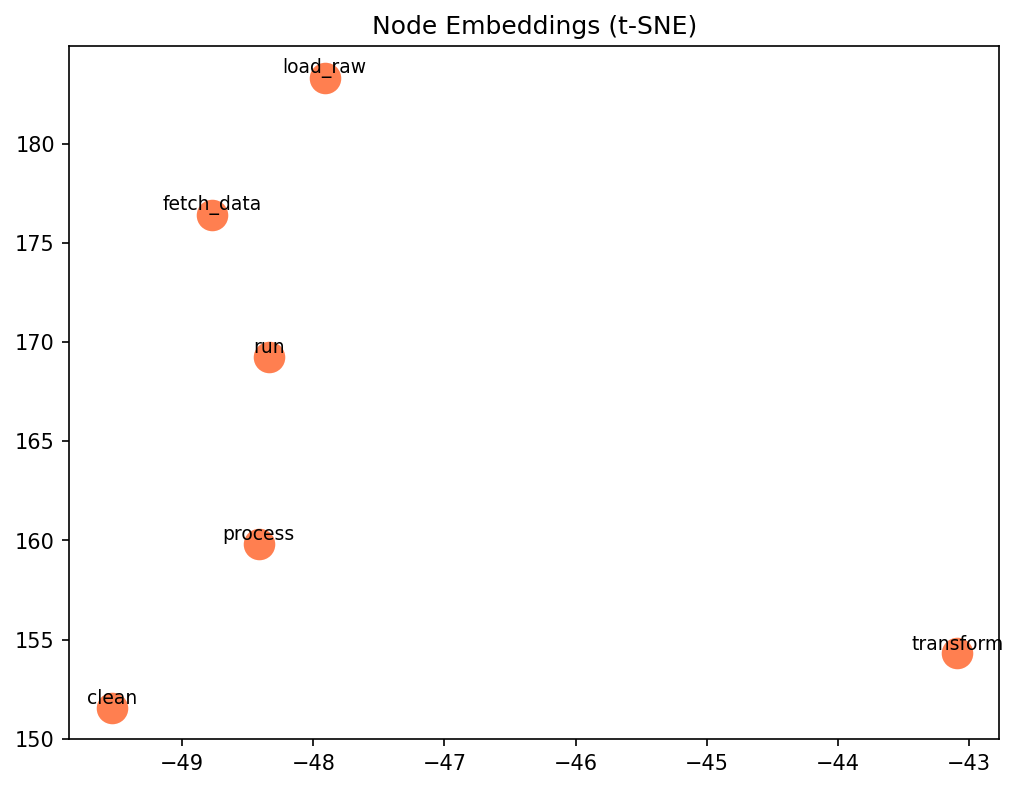
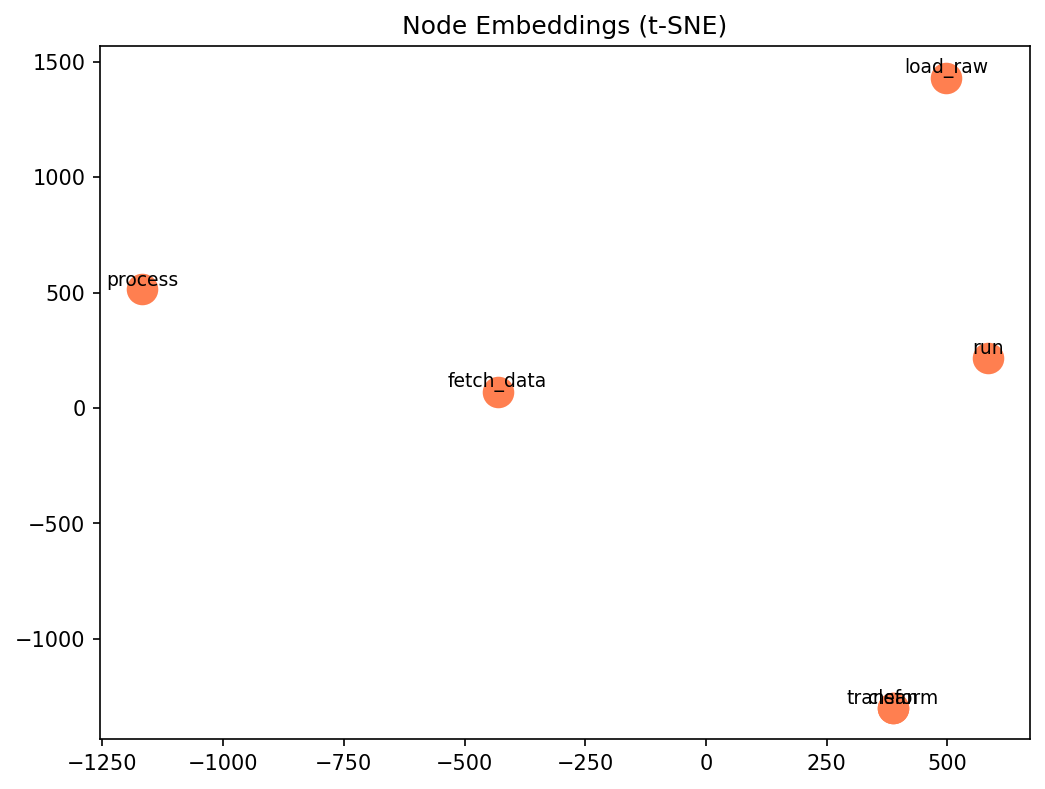
Semantics added

diff --git a/graph.py b/graph.py
@@ -1,18 +1,31 @@
 import torch
 from torch_geometric.data import Data
+from sentence_transformers import SentenceTransformer
+
+# Load a lightweight, fast model suitable for a 1-week sprint
+# This model turns text into a 384-dimensional semantic vector
+embedder = SentenceTransformer('all-MiniLM-L6-v2')
 
 def build_graph(parsed):
+    """
+    Constructs a PyTorch Geometric Data object with Semantic Node Features.
+    """
     functions = parsed["functions"]
     calls = parsed["calls"]
 
-    # Map function name → integer index
+    # 1. Map function name → integer index
     node_index = {name: i for i, name in enumerate(functions)}
     num_nodes = len(functions)
 
-    # One-hot node features
-    x = torch.eye(num_nodes, dtype=torch.float)
+    # 2. SEMANTIC NOVELTY: Generate Node Features (x)
+    # Instead of an Identity Matrix, we use the "Meaning" of the function names.
+    # This allows the GNN to learn patterns based on what the code DOES.
+    print(f"Generating semantic embeddings for {num_nodes} functions...")
+    with torch.no_grad():
+        embeddings = embedder.encode(functions)
+        x = torch.tensor(embeddings, dtype=torch.float)
 
-    # Build edge_index from calls that reference known functions
+    # 3. Build edge_index from calls
     edges = [
         (node_index[caller], node_index[callee])
         for caller, callee in calls
@@ -20,8 +33,15 @@ def build_graph(parsed):
     ]
 
     if edges:
+        # Transfer to tensor [2, num_edges]
         edge_index = torch.tensor(edges, dtype=torch.long).t().contiguous()
     else:
+        # Handle case with no internal calls
         edge_index = torch.empty((2, 0), dtype=torch.long)
 
-    return Data(x=x, edge_index=edge_index), node_index
+    # 4. Create the PyG Data object
+    # We also store the function names in the object for easier visualization later
+    data = Data(x=x, edge_index=edge_index)
+    data.node_names = functions 
+
+    return data, node_index

diff --git a/app.py b/app.py
@@ -1,0 +1,30 @@
+import streamlit as st
+import pandas as pd
+from parser import parse_file
+from graph import build_graph
+# ... import your other modules
+
+st.title("🌐 Semantic Codebase Cartographer")
+
+uploaded_file = st.file_uploader("Upload a Python file", type=["py"])
+
+if uploaded_file:
+    # Save temp file and parse
+    with open("temp.py", "wb") as f:
+        f.write(uploaded_file.getbuffer())
+    
+    parsed = parse_file("temp.py")
+    
+    col1, col2 = st.columns(2)
+    
+    with col1:
+        st.header("📍 Codebase Structure")
+        # Call your visualize_graph function here
+        st.image("call_graph.png") # For now, show the static image
+        
+    with col2:
+        st.header("🧠 Semantic Clusters")
+        # Call your visualize_embeddings function here
+        st.image("embeddings.png")
+
+    st.success("Analysis Complete! Predicting Dependencies...")

diff --git a/main.py b/main.py
@@ -80,7 +80,8 @@ def main():
         return
 
     # 4. Init model
-    model = GNN(in_channels=data.num_nodes, hidden_channels=16, out_channels=8)
+    # data.x.size(1) will be 384
+    model = GNN(in_channels=data.x.size(1), hidden_channels=16, out_channels=8)
 
     # 5. Train
     print("\nTraining...\n")
